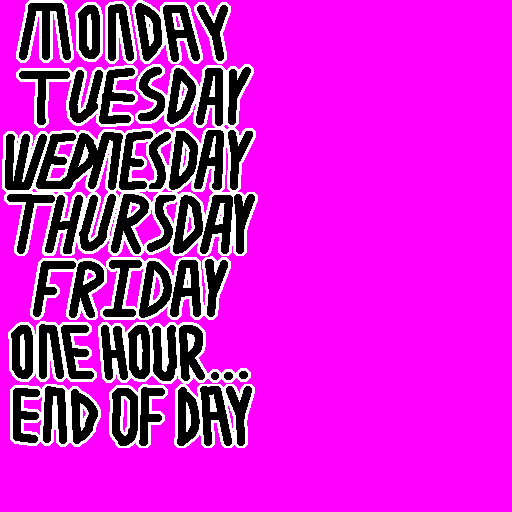
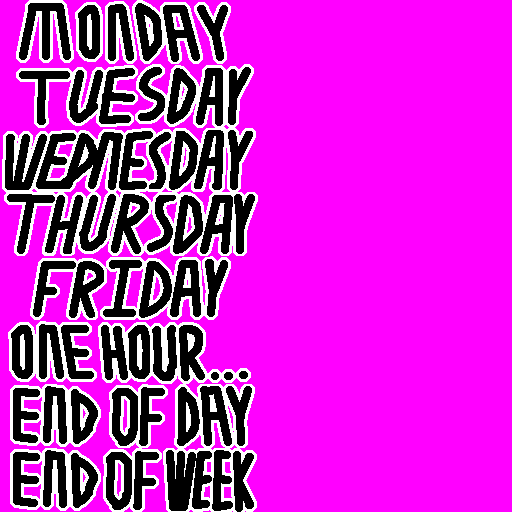
Basic end of week screen

Changed region(s): [[0.0, 0.875, 0.5, 1.0]]

diff --git a/main.js b/main.js
@@ -2367,18 +2367,24 @@ class Clock {
     if (this.frames >= workdayFrames) {
       this.running = false;
 
-      fader.fadeOut(FADE_TIME, () => {
-        state = endDayState;
-        state.start();
-      });
-
       this.frames = 0;
       this.weekday++;
-      if (this.weekday >= 5) {
-        // TODO end of week
 
+      let endWeek = false;
+      if (this.weekday >= 5) {
         this.weekday = 0;
+        endWeek = true;
       }
+
+      fader.fadeOut(FADE_TIME, () => {
+        state = endDayState;
+        if (endWeek) {
+          state.endWeek();
+        } else {
+          state.endDay();
+        }
+      });
+
     }
   }
 
@@ -2723,6 +2729,7 @@ class EndDayState {
 
     let w = SCREEN_WIDTH;
 
+    this.title = this.makeTitleObj(0, 0.3, -512, w * 0.5, 128);
     this.carrot = this.makeTextObj('0', 1.7, 1.9, w, (w + 12 * 32) * 0.5, 256);
     this.tomato = this.makeTextObj('0', 1.9, 2.1, w, (w + 12 * 32) * 0.5, 320);
     this.chicken = this.makeTextObj('0', 2.1, 2.3, w, (w + 12 * 32) * 0.5, 384);
@@ -2730,7 +2737,7 @@ class EndDayState {
     this.crate = this.makeTextObj('0', 2.5, 2.7, w, (w + 12 * 32) * 0.5, 512);
 
     this.objs = [
-      this.makeTitleObj(0, 0.3, -512, w * 0.5, 128),
+      this.title,
       this.makeTextObj('carrot', 0.5, 0.7, -512, (w - 7 * 32) * 0.5, 256),
       this.makeSpriteObj(PICKUP_DATA.carrot.frame, 0.5, 0.7, -512,
                          w * 0.5 + 4 * 32, 272),
@@ -2815,14 +2822,31 @@ class EndDayState {
     object.text.set(0, 0, message, 2, 2);
   }
 
-  start() {
+  endDay() {
     this.running = false;
     this.t = 0;
+    this.title.sprite.texMat.setTranslate(0, 6 * 64 / TEX_HEIGHT);
     this.updateText(this.carrot, score.carrot.toString());
     this.updateText(this.tomato, score.tomato.toString());
     this.updateText(this.chicken, score.chicken.toString());
     this.updateText(this.soup, score.soup.toString());
     this.updateText(this.crate, score.crate.toString());
+    this.update();
+
+    fader.fadeIn(FADE_TIME, () => {
+      this.running = true;
+    });
+  }
+
+  endWeek() {
+    this.running = false;
+    this.t = 0;
+    this.title.sprite.texMat.setTranslate(0, 7 * 64 / TEX_HEIGHT);
+    this.updateText(this.carrot, weekScores.carrot.toString());
+    this.updateText(this.tomato, weekScores.tomato.toString());
+    this.updateText(this.chicken, weekScores.chicken.toString());
+    this.updateText(this.soup, weekScores.soup.toString());
+    this.updateText(this.crate, weekScores.crate.toString());
     this.update();
 
     fader.fadeIn(FADE_TIME, () => {
